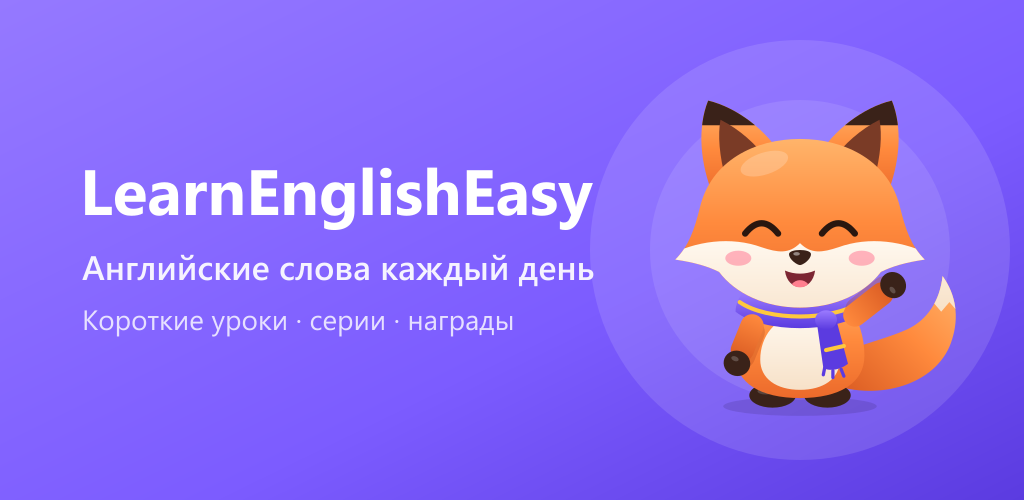
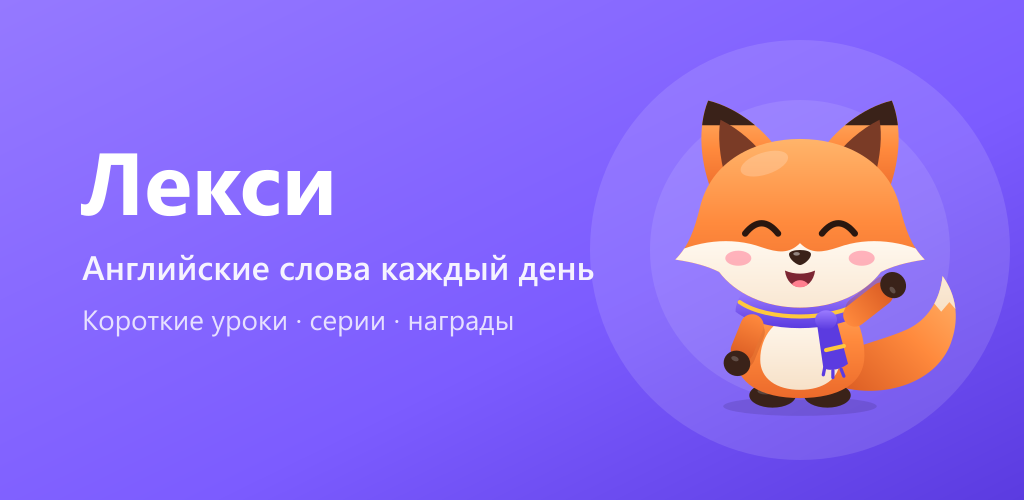
chore: rename the Android app to «Лекси: английские слова»

Changed region(s): [[0.0625, 0.3, 0.5938, 0.48]]

diff --git a/public/privacy-policy.html b/public/privacy-policy.html
@@ -3,7 +3,7 @@
 <head>
     <meta charset="UTF-8">
     <meta name="viewport" content="width=device-width, initial-scale=1.0">
-    <title>Privacy Policy - LearnEnglishEasy</title>
+    <title>Privacy Policy - Лекси: английские слова</title>
     <style>
         * {
             margin: 0;
@@ -111,7 +111,7 @@
         <p class="last-updated">Last updated: October 27, 2026</p>
         
         <p>
-            This Privacy Policy describes how <strong>LearnEnglishEasy</strong> ("we", "our", or "the app") 
+            This Privacy Policy describes how <strong>Лекси: английские слова</strong> ("we", "our", or "the app") 
             collects, uses, and protects your information when you use our mobile application.
         </p>
         
@@ -232,7 +232,7 @@
             <p>If you have any questions or concerns about this Privacy Policy, please contact us:</p>
             <p>
                 <strong>Email:</strong> <a href="mailto:artsiomdziominski@gmail.com">artsiomdziominski@gmail.com</a><br>
-                <strong>App Name:</strong> LearnEnglishEasy - Изучение английских слов ежедневно<br>
+                <strong>App Name:</strong> Лекси: английские слова<br>
                 <strong>Package ID:</strong> io.learn.english
             </p>
         </div>
@@ -245,7 +245,7 @@
         <hr style="margin: 40px 0; border: none; border-top: 1px solid #e0e0e0;">
         
         <p style="text-align: center; color: #7f8c8d; font-size: 0.9em;">
-            © 2026 LearnEnglishEasy. All rights reserved.
+            © 2026 Лекси: английские слова. All rights reserved.
         </p>
     </div>
 </body>

diff --git a/capacitor.config.ts b/capacitor.config.ts
@@ -2,7 +2,7 @@ import type { CapacitorConfig } from '@capacitor/cli';
 
 const config: CapacitorConfig = {
   appId: 'io.learn.english',
-  appName: 'LearnEnglishEasy',
+  appName: 'Лекси',
   webDir: 'dist',
   ios: {
     // Отключаем нативный iOS swipe back gesture чтобы избежать конфликта с Ionic навигацией

diff --git a/store/listing-ru.md b/store/listing-ru.md
@@ -6,7 +6,7 @@
 
 ## Название (до 30 символов)
 
-LearnEnglishEasy: английский
+Лекси: английские слова
 
 ## Краткое описание (до 80 символов)
 
@@ -14,7 +14,7 @@ LearnEnglishEasy: английский
 
 ## Полное описание (до 4000 символов)
 
-LearnEnglishEasy помогает учить английские слова по несколько минут в день. Лисёнок Лекси ведёт вас по урокам, а интервальное повторение возвращает слова ровно тогда, когда их пора освежить.
+«Лекси» помогает учить английские слова по несколько минут в день. Лисёнок Лекси ведёт вас по урокам, а интервальное повторение возвращает слова ровно тогда, когда их пора освежить.
 
 КАК ЭТО РАБОТАЕТ
 • Путь из коротких уроков по 4 слова: от A1 до C2 и отдельные тематические разделы
